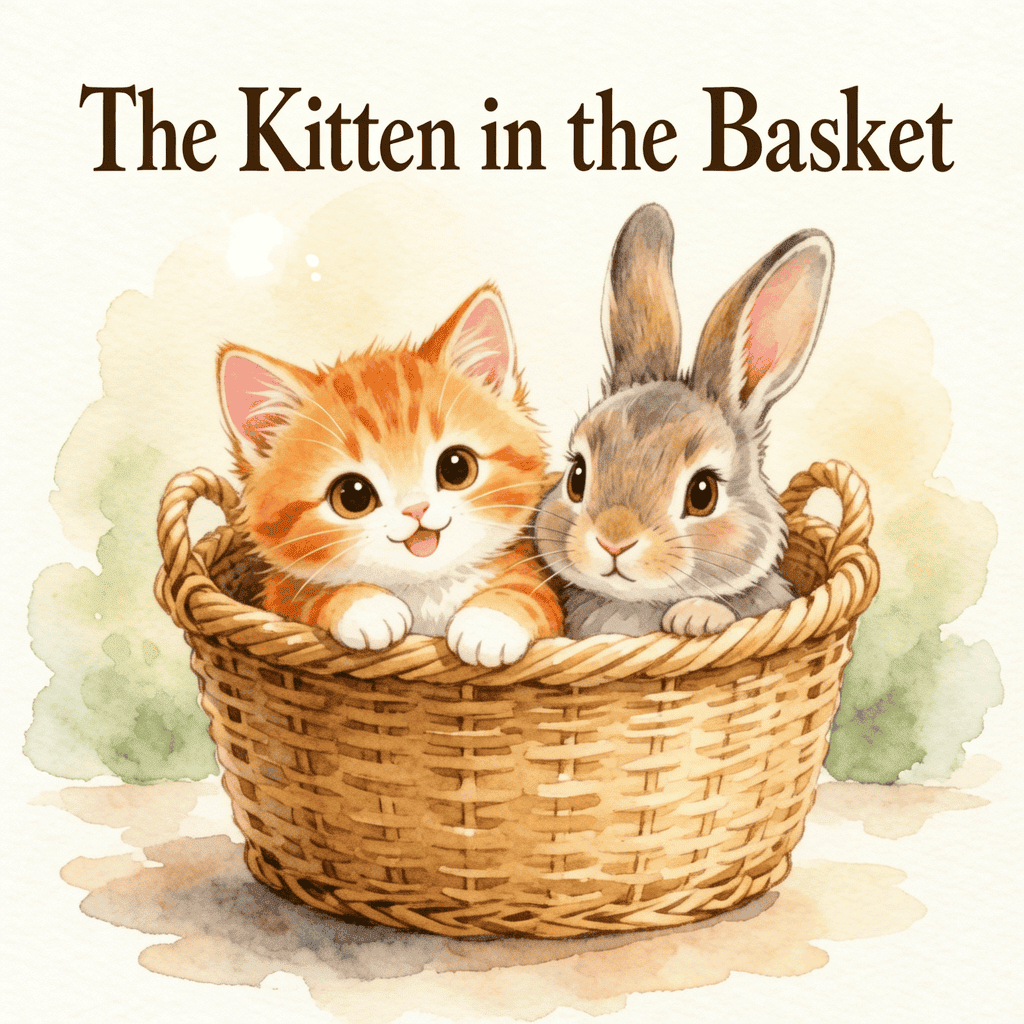
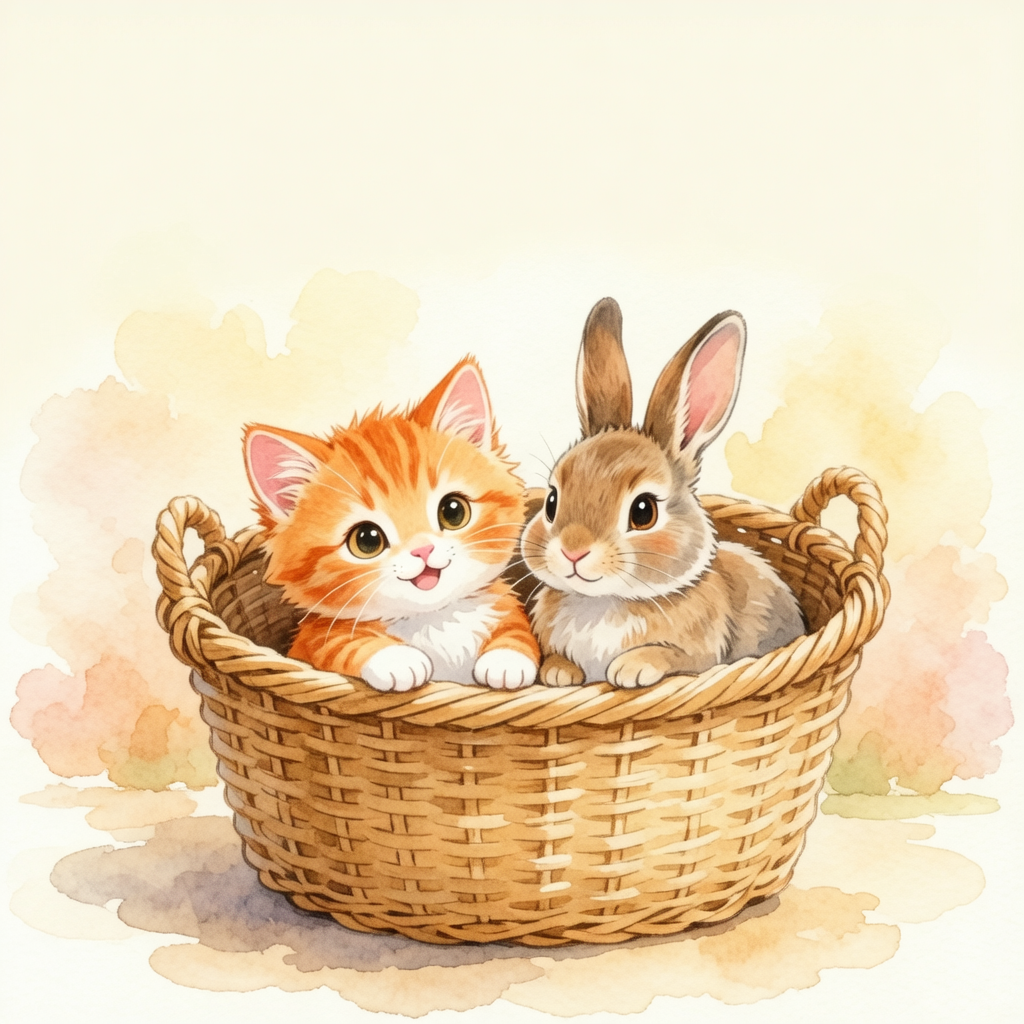
Regenerate 22 book covers without baked-in text
Covers now have pure illustrations - titles are overlaid by the UI.
Regenerated A-band, B-band, and C-band covers using wan2.6-image
with explicit no-text prompting.

Remaining covers (D-band + some color variants) pending API credits.

diff --git a/scripts/regenerate_covers_no_text.py b/scripts/regenerate_covers_no_text.py
@@ -1,0 +1,240 @@
+#!/usr/bin/env python3
+"""Regenerate book covers WITHOUT any text baked in.
+
+Uses wan2.6-image with reference images and very explicit no-text instructions.
+"""
+
+import sys
+import os
+import base64
+import json
+import urllib.request
+from pathlib import Path
+
+# Add the skill directory to path
+SKILL_DIR = Path("/Users/dereklomas/.claude/plugins/cache/mulerouter-skills/mulerouter-skills/1.0.0/skills/mulerouter-skills")
+sys.path.insert(0, str(SKILL_DIR))
+
+from dotenv import load_dotenv
+load_dotenv(SKILL_DIR / ".env")
+
+from core import APIClient, load_config, create_and_poll_task
+
+BOOKS_DIR = Path("/Users/dereklomas/lilbookies/public/books")
+COVERS_DIR = Path("/Users/dereklomas/lilbookies/public/images/covers")
+REFS_DIR = BOOKS_DIR / "references"
+
+# Covers that need regeneration (have text baked in)
+COVERS_WITH_TEXT = [
+    "a0-look",
+    "a1-i-sit",
+    "a2-i-see-it",
+    "a3-the-cat-is-here",
+    "a4-sam-and-the-hat",
+    "b1-sam-and-the-cat",
+    "b2-pup-in-the-mud",
+    "b3-jump-at-camp",
+    "b4-frog-and-crab",
+    "b5-the-ship-in-the-shell",
+    "b6-kate-and-the-lake",
+    "b7-the-rain-and-the-snow",
+    "b8-the-owl-and-the-boy",
+    "b9-a-star-at-the-farm",
+    "c1_knight_quest",
+    "c2_magic_city",
+    "c3_kitten_adventure",
+    "c4_robot_pilot",
+    "c5_treehouse_mystery",
+    "c6_biggest_race",
+    "c7_hopeless_garden",
+    "c8_impossible_invention",
+    "d2-the-hidden-garden",
+    "d3-the-architects-secret",
+    "d4-signals-from-kepler",
+    "d5-the-winter-of-words",
+    "d6-the-bridge-between",
+    "pig_mud",
+    "jungle_v2",
+    "sol_stone_orange",
+    "fern_gust_orange",
+    "pig_yellow",
+    "snail_blue",
+    "fox_purple",
+    "owl_green",
+    "puppy_silver",
+]
+
+
+def image_to_base64_uri(path: Path) -> str:
+    """Convert image file to data URI."""
+    with open(path, "rb") as f:
+        b64 = base64.b64encode(f.read()).decode()
+    ext = path.suffix.lower()
+    mime = "image/png" if ext == ".png" else "image/jpeg"
+    return f"data:{mime};base64,{b64}"
+
+
+def download_image(url: str, output_path: Path) -> bool:
+    """Download image from URL."""
+    try:
+        urllib.request.urlretrieve(url, output_path)
+        print(f"  ✓ Downloaded to {output_path.name}")
+        return True
+    except Exception as e:
+        print(f"  ✗ Error downloading: {e}")
+        return False
+
+
+def get_cover_prompt(book_path: Path) -> str:
+    """Extract cover scene description from book JSON.
+
+    Uses VERY explicit no-text instructions.
+    """
+    with open(book_path) as f:
+        book = json.load(f)
+
+    # Find cover page scene description
+    scene = ""
+    for page in book.get("pages", []):
+        if page.get("type") == "cover" or page.get("page") == 1:
+            scene = page.get("scene", "")
+            break
+
+    if not scene:
+        scene = book.get("summary", "A charming scene")
+
+    # Remove any mention of title/text from scene description
+    scene_clean = scene.replace("title", "").replace("text", "").replace("words", "")
+
+    # Build prompt with VERY explicit no-text instructions
+    return f"""Children's book cover illustration showing: {scene_clean}
+
+Art style: Soft watercolor illustration with warm colors. Cute, whimsical style appropriate for young children ages 4-7. Charming character designs with expressive faces.
+
+CRITICAL REQUIREMENTS:
+- This is a PURE ILLUSTRATION with NO TEXT whatsoever
+- Do NOT include any title, words, letters, numbers, or writing
+- Do NOT include any text overlays, banners, or labels
+- The image should be ONLY artwork - no typography of any kind
+- Leave space at the top for a title to be added digitally later
+- Focus on the characters and scene, not on any text elements"""
+
+
+def find_reference(slug: str) -> Path | None:
+    """Find reference image for a book (handles _v2, _v3 variants)."""
+    # Try exact match first
+    ref = REFS_DIR / f"{slug}_reference.png"
+    if ref.exists():
+        return ref
+
+    # Try versioned variants
+    for v in ["_v3", "_v2"]:
+        ref = REFS_DIR / f"{slug}_reference{v}.png"
+        if ref.exists():
+            return ref
+
+    return None
+
+
+def generate_cover(slug: str, config) -> bool:
+    """Generate cover for a book using its reference image."""
+
+    ref_path = find_reference(slug)
+    book_path = BOOKS_DIR / f"{slug}.json"
+    output_path = COVERS_DIR / f"{slug}.png"
+
+    if not ref_path:
+        print(f"  ⚠ No reference image found")
+        return False
+
+    if not book_path.exists():
+        print(f"  ⚠ No book JSON found")
+        return False
+
+    # Get prompt from book
+    prompt = get_cover_prompt(book_path)
+    print(f"  Scene: {prompt[50:120]}...")
+
+    # Convert reference to base64
+    ref_uri = image_to_base64_uri(ref_path)
+
+    # Build request
+    body = {
+        "prompt": prompt,
+        "images": [ref_uri],
+        "size": "1024*1024",
+        "n": 1
+    }
+
+    # Call API
+    with APIClient(config) as client:
+        result = create_and_poll_task(
+            client=client,
+            endpoint_path="/vendors/alibaba/v1/wan2.6-image/generation",
+            request_body=body,
+            result_key="images",
+            interval=5.0,
+            max_wait=300.0,
+            verbose=False
+        )
+
+        if result.results:
+            url = result.results[0]
+            return download_image(url, output_path)
+        else:
+            print(f"  ✗ Failed: {result.error}")
+            return False
+
+
+def main():
+    import argparse
+    parser = argparse.ArgumentParser()
+    parser.add_argument("--slug", help="Regenerate specific cover only")
+    parser.add_argument("--dry-run", action="store_true", help="Just list what would be regenerated")
+    args = parser.parse_args()
+
+    # Determine which covers to regenerate
+    if args.slug:
+        slugs = [args.slug]
+    else:
+        slugs = COVERS_WITH_TEXT
+
+    print(f"Regenerating {len(slugs)} covers WITHOUT text:\n")
+
+    if args.dry_run:
+        for s in slugs:
+            ref = find_reference(s)
+            status = "✓ has ref" if ref else "✗ no ref"
+            print(f"  {s}: {status}")
+        return
+
+    # Load config
+    config = load_config()
+    print(f"Using API: {config.site}\n")
+
+    # Ensure output dir exists
+    COVERS_DIR.mkdir(parents=True, exist_ok=True)
+
+    # Generate covers
+    success = 0
+    failed = []
+
+    for i, slug in enumerate(slugs):
+        print(f"[{i+1}/{len(slugs)}] {slug}")
+        if generate_cover(slug, config):
+            success += 1
+        else:
+            failed.append(slug)
+        print()
+
+    print(f"\n{'='*50}")
+    print(f"Done! Generated {success}/{len(slugs)} covers.")
+
+    if failed:
+        print(f"\nFailed ({len(failed)}):")
+        for s in failed:
+            print(f"  - {s}")
+
+
+if __name__ == "__main__":
+    main()
